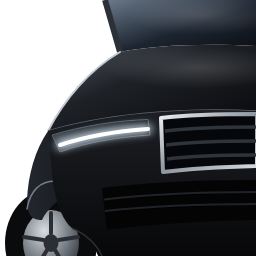
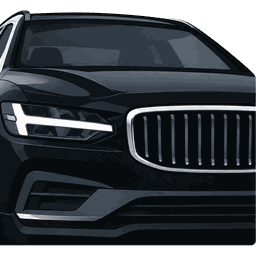
TASK-0006: the brand assets are cuts of the owner's generated drawing of the car
custom_components/vledger/brand/ now holds icon.png and icon@2x.png (the
front from the headlight to the cut, padded to a square), logo.png and
logo@2x.png (the car beside the wordmark, vledger in dark grey) and
dark_logo.png and dark_logo@2x.png (the wordmark in light grey, served on
dark backgrounds). All six are cuts of one generated image kept outside
the repository, the background made transparent with the enclosed whites
kept, reduced to 256 colours: a tenth of the size at no visible loss.
icon.svg, the hand-drawn source of the first set, goes with the set.

The generated image also carried the Home Assistant logo; it is not in
any of the files, since Home Assistant's brand guidelines keep their logo
out of other projects' logos. docs/developing.md describes the files.

Claude-Session: https://claude.ai/code/session_01LAaWhy3teeR44YNMULuaGi

diff --git a/docs/developing.md b/docs/developing.md
@@ -132,28 +132,28 @@ be loaded ([releasing.md](releasing.md)).
 `custom_components/vledger/brand/` holds the icon and logo Home Assistant
 shows for the integration since 2026.3 — an instance older than that shows
 none, since the domain is not in the `home-assistant/brands` repository —
-and what HACS's validation looks for (`brand/icon.png`; ISSUE-0002).
-`icon.svg` beside them is the source: the front-left corner of a black
-estate car, cut by the frame. The PNGs are renderings of it, transparent,
-optimised, nothing else:
+and what HACS's validation looks for (`brand/icon.png`; ISSUE-0002). The
+drawing is the owner's: the front of a black estate car, generated as an
+image and kept outside the repository. The files are cuts of it, the
+background made transparent, reduced to 256 colours, nothing else:
 
 | file | what | size |
 |---|---|---|
-| `icon.png`, `icon@2x.png` | the drawing whole | 256 × 256, 512 × 512 |
-| `logo.png`, `logo@2x.png` | its band from the hood's crest to the bumper, `viewBox` `66 90 472 236` | 256 × 128, 512 × 256 |
+| `icon.png`, `icon@2x.png` | the front from the headlight to the cut, padded to a square | 256 × 256, 512 × 512 |
+| `logo.png`, `logo@2x.png` | the car beside the wordmark, `vledger` in dark grey for light backgrounds | 702 × 256, 1402 × 512 |
+| `dark_logo.png`, `dark_logo@2x.png` | the same with the wordmark in light grey, served on dark backgrounds | 702 × 256, 1402 × 512 |
 
-They were rendered with headless Chromium (`--screenshot` with a
-transparent default background, then cropped to the drawing), which
-honours the Gaussian blur behind the running light; a renderer that drops
-SVG filters loses the glow and nothing else. A change to the drawing
-re-renders all four.
+The icon needs no dark variant: its silver grille and running light read on
+both. The Home Assistant logo is not part of any of them and may not be —
+the Home Assistant brand guidelines keep it out of other projects' logos.
+A new drawing replaces all six.
 
 ## Where things are
 
 ```
 src/vledger/               the library and CLI — all derivation logic, no Home Assistant
 custom_components/vledger/ the integration: flows, capture, entities, translations;
-                           brand/ the icon and logo it is shown with, and their source
+                           brand/ the icon and logo it is shown with
 tests/                     the library's tests; tests/ha/ the integration's;
                            tests/fixtures/ real streams, anonymised
 docs/                      design documents, operating manuals, the user guide
